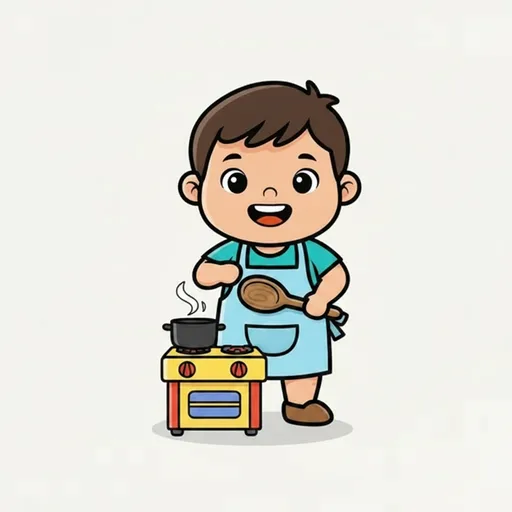
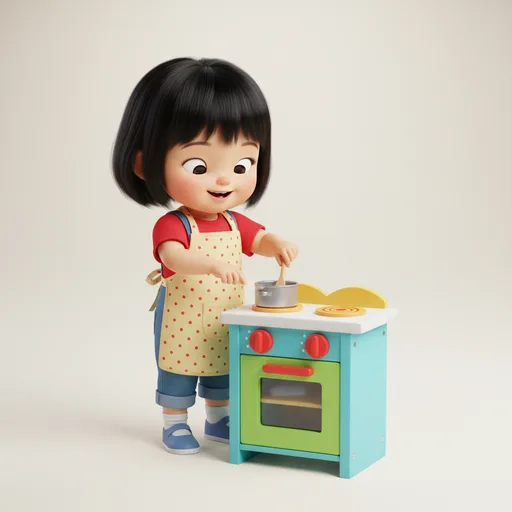
Feat: animation diversity Batch 2b — final 10 verbs; ALL verbs now diverse
crying (white girl), painting (Black boy), throwing (brown boy), cooking (Asian
girl, at a toy play-kitchen stove role-playing), pointing (white boy), swimming
(brown girl), laughing (two Black kids), playing (Asian boy + brown girl),
peekaboo (two Black kids), hug-your-bunny (Asian girl). Locked method (frame 2
conditioned on frame 1) — clothing consistent throughout.

All 29 "Things I Do" verb animations are now a balanced, consistent, multi-ethnic
cast. npm run check + verify-actions green. Remaining: ~4 child-featuring songs.

diff --git a/TINYVVOICE_PROJECT_CONTEXT.md b/TINYVVOICE_PROJECT_CONTEXT.md
@@ -5,16 +5,16 @@ A git pre-commit hook auto-refreshes the metadata block below; the human-maintai
 sections (Build Status, Next Steps) are updated by hand each push.
 
 <!-- AUTO:START -->
-> _Auto-updated on commit — last refreshed **2026-08-28 20:03 UTC** on branch `main`._
+> _Auto-updated on commit — last refreshed **2026-08-28 20:34 UTC** on branch `main`._
 
 **Recent commits:**
 
+- `5acaff7 Feat: animation diversity Batch 2a — 8 verbs re-cast (locked method)`
 - `863b438 Fix: lock clothing consistency on dance/hug/wake (frame2 conditioned on frame1)`
 - `a0a5244 Feat: animation diversity Batch 1b — 6 verbs re-cast; Batch 1 complete`
 - `bc3f4e1 Feat: animation diversity Batch 1a — 5 verbs re-cast (fresh method)`
 - `a8f74d8 Feat: routine images — dressing/bath/park (NEW WORK Phase 4)`
 - `7be82dd Feat: routine wording — bedtime + bath (NEW WORK Phase 3)`
-- `10af227 Feat: listening-game language — plural prompts + eating image (NEW WORK Phase 2)`
 <!-- AUTO:END -->
 
 ---
